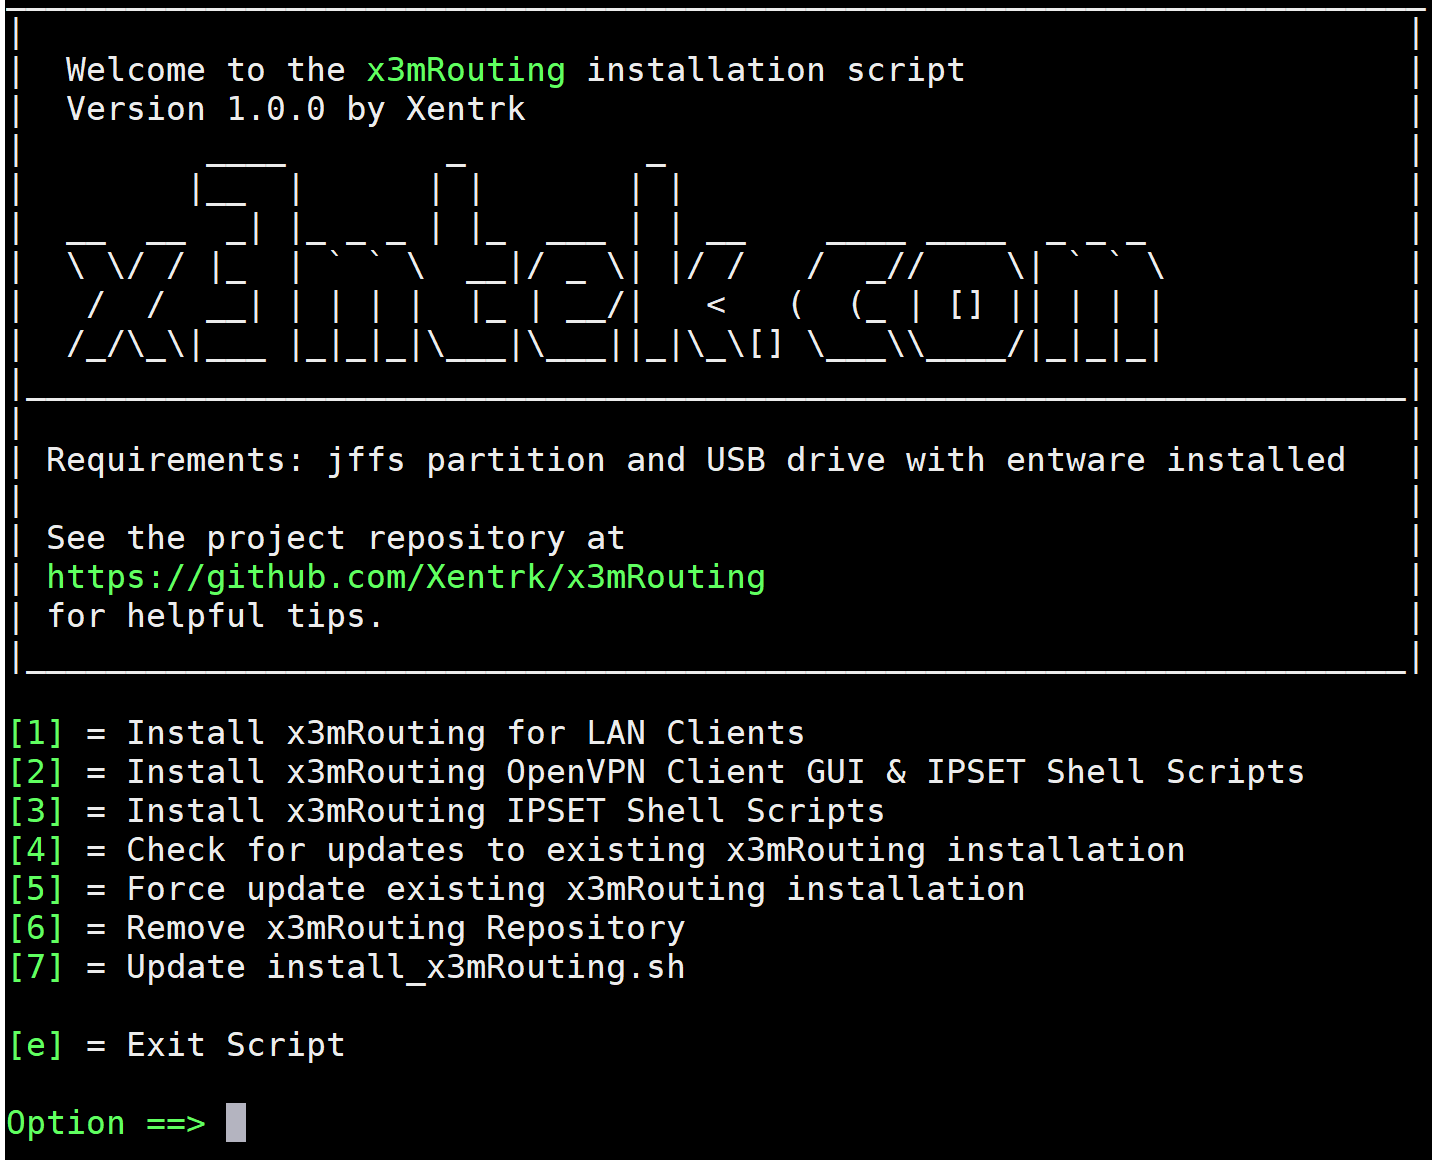
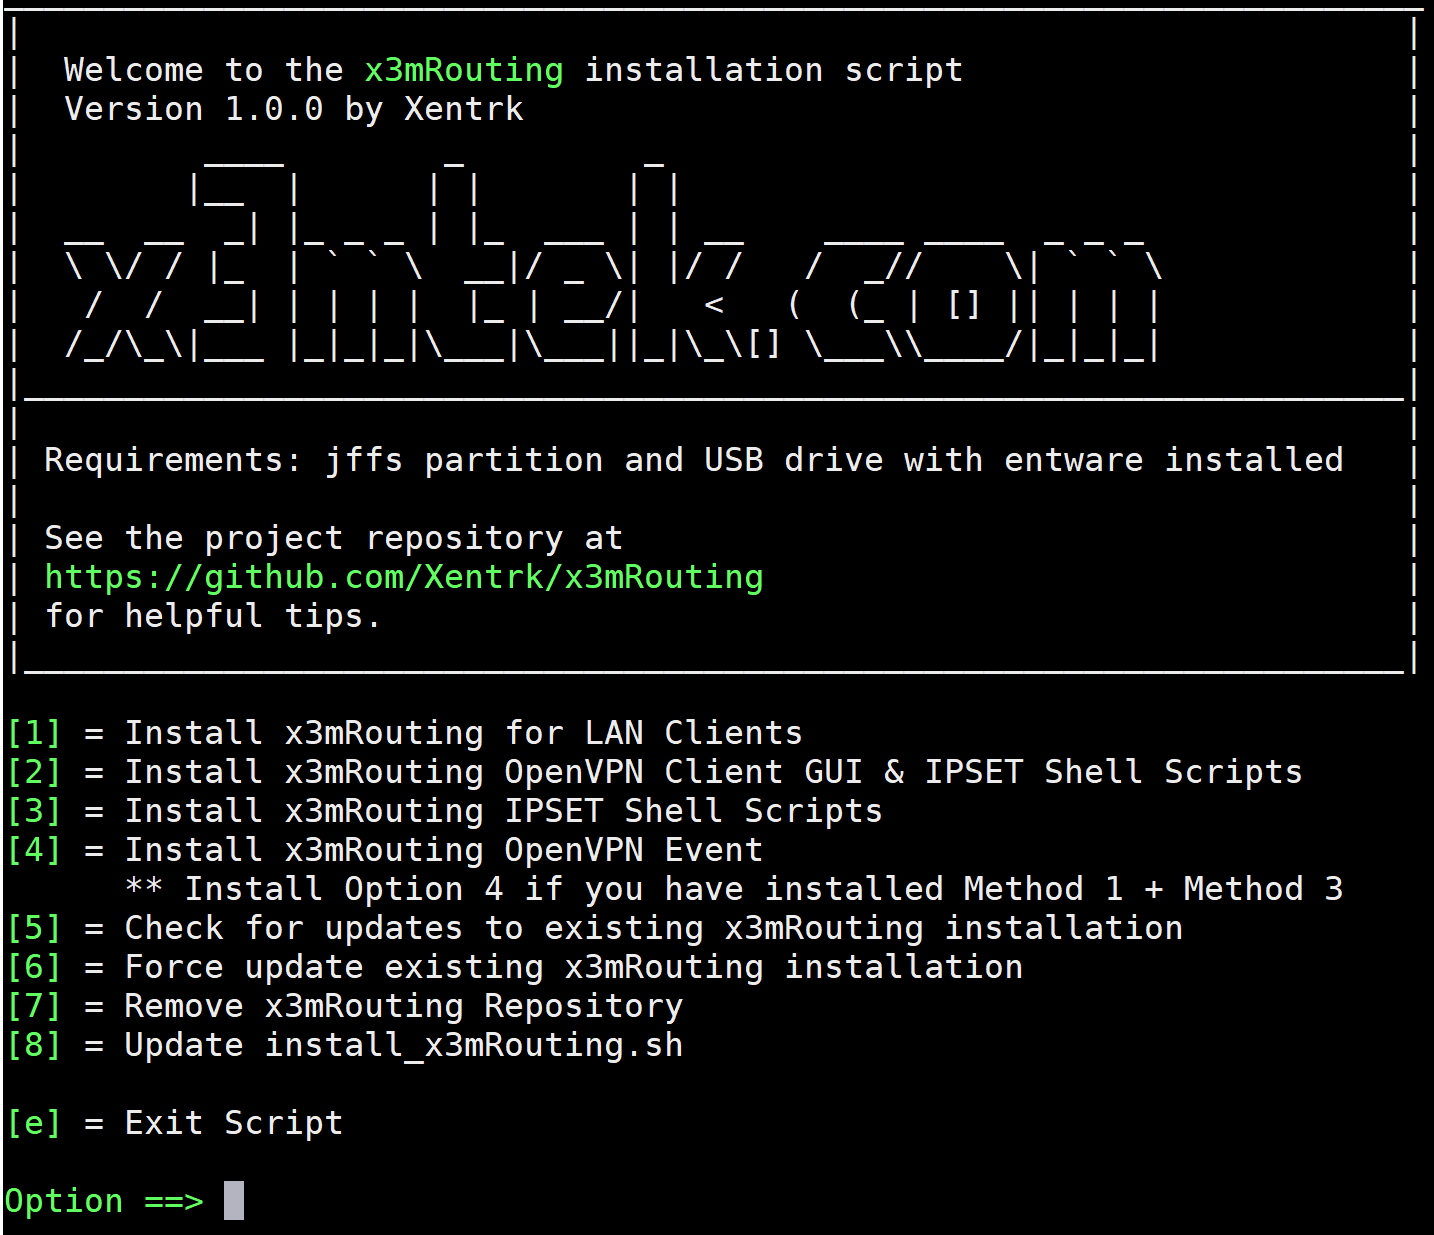
updated with patches

Changed region(s): [[0.0, 0.0, 0.9525, 0.9931], [0.9832, 0.0, 1.0, 0.5897]]

diff --git a/README.md b/README.md
@@ -320,7 +320,9 @@ from the following entries in **/opt/var/log/dnsmasq.log**:
     awk.epgsky.com
     etc...
 
-In order to have the IPSET lists and routing rules restored at boot, execute the scripts from **/jffs/scripts/nat-start**. Refer to the [Wiki](https://github.com/RMerl/asuswrt-merlin/wiki/User-scripts#creating-scripts ) for instructions on how to configure nat-start.
+There are two options available to choose from so the IPSET lists and routing rules are restored at boot when using the when using the **x3mRouting IPSET Shell Script Method**
+
+1. If you only use Method 3 - **x3mRouting IPSET Shell Script Method**, you can execute the scripts from **/jffs/scripts/nat-start**.
 
 #### /jffs/scripts/nat-start example
 Following is an example of how to configure /**jffs/scripts/nat-start** to create the IPSET lists and define the routing rules for streaming media traffic at system boot.
@@ -336,6 +338,20 @@ Following is an example of how to configure /**jffs/scripts/nat-start** to creat
     sh /jffs/scripts/x3mRouting/load_DNSMASQ_ipset.sh 2 MOVETV movetv.com
     sh /jffs/scripts/x3mRouting/load_DNSMASQ_ipset_iface.sh 2 CBS_WEB cbs.com,cbsnews.com,cbssports.com,cbsaavideo.com,omtrdc.net,akamaihd.net,irdeto.com,cbsi.com,cbsig.net
     sh /jffs/scripts/x3mRouting/load_DNSMASQ_ipset_iface.sh 3 BBC_WEB bbc.co.uk,bbc.com,bbc.gscontxt.net,bbci.co.uk,bbctvapps.co.uk,ssl-bbcsmarttv.2cnt.net,llnwd.net
+
+2. If you use **Method 1 - x3mRouting for LAN Clients Method** combined with **Method 3 - x3mRouting IPSET Shell Script Method**, don't use the nat-start method. Instead, select **Option 4 - Install x3mRouting OpenVPN Event** from the installation menu. Then, in the project directory **/jffs/scripts/x3mRouting**, create a corresponding script called **vpnclientX-route-up** for each OpenVPN Client used for x3mRouting, where the "X" is the OpenVPN Client number 1, 2, 3, 4 or 5, and add the required entry for each x3mRouting script that requires routing through the OpenVPN Client.
+
+#### /jffs/scripts/x3mRouting/vpnclient1-route-up example
+Following is an example of how to configure /**jffs/scripts/x3mRouting/vpnclient1-route-up** to create the IPSET lists and define the routing rules for streaming media traffic at system boot. This script will get executed whenever the OpenVPN Client 1 route-up state has completed processing.  
+
+````
+#!/bin/sh
+sh /jffs/scripts/x3mRouting/load_AMAZON_ipset_iface.sh 1 AMAZON-US US
+sh /jffs/scripts/x3mRouting/load_ASN_ipset_iface.sh 1 NETFLIX AS2906
+sh /jffs/scripts/x3mRouting/load_DNSMASQ_ipset_iface.sh 1 HULU_WEB hulu.com,hulustream.com,akamaihd.net
+````
+
+Refer to the [Wiki](https://github.com/RMerl/asuswrt-merlin/wiki/User-scripts#creating-scripts ) for instructions on how to configure nat-start and other user scripts.
 
 ## Helpful Tips, Validation and Troubleshooting
 
